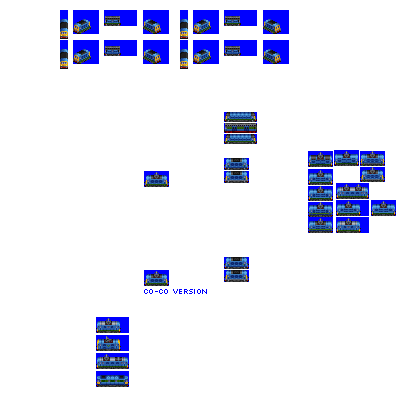
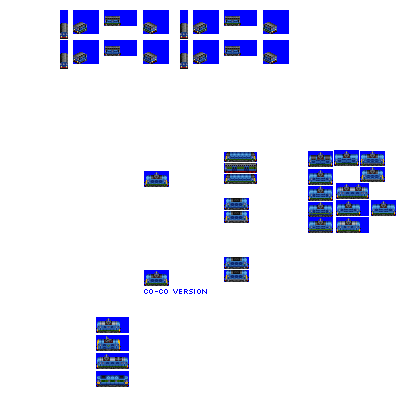
Change: larger metro locomotives are finished; larger metro units are not, so turn off

diff --git a/src/rosters/pony.py b/src/rosters/pony.py
@@ -173,23 +173,23 @@ engine_module_names = [
     "driving_cab_high_speed_mail_pony_gen_6",
     # metro
     "serpentine",
-    "poplar", # unfinished, nerfed
+    #"poplar", # unfinished, nerfed
     "westbourne",
-    "hammersmith", # unfinished, nerfed
+    #"hammersmith", # unfinished, nerfed
     "fleet",
-    "canary", # unfinished, nerfed
+    #"canary", # unfinished, nerfed
     "longwater",
-    "ravensbourne", # unfinished, nerfed
+    #"ravensbourne", # unfinished, nerfed
     "tyburn",
-    "wandle", # unfinished, nerfed
+    #"wandle", # unfinished, nerfed
     "tideway",
-    "bankside", # unfinished, nerfed
-    "debden", # unfinished, nerfed
-    "cringle", # unfinished, nerfed
-    "mulberry", # unfinished, nerfed
-    "walbrook", # unfinished, nerfed
-    "borax", # unfinished, nerfed
-    "angerstein", # unfinished, nerfed
+    #"bankside", # unfinished, nerfed
+    "debden",
+    "cringle",
+    "mulberry",
+    "walbrook",
+    "borax",
+    "angerstein",
     # ng engines
     "cheese_bug",
     "bean_feast",

diff --git a/src/vehicles/pony/borax.py b/src/vehicles/pony/borax.py
@@ -19,7 +19,7 @@ def main(roster_id, **kwargs):
         extended_vehicle_life=True,
         # note that livery names are metadata only and can repeat for different spriterows
         additional_liveries=["INDUSTRIAL_YELLOW"],
-        sprites_complete=False,
+        sprites_complete=True,
     )
 
     consist.add_unit(
@@ -27,7 +27,7 @@ def main(roster_id, **kwargs):
     )
 
     consist.description = (
-        """."""
+        """Is London drowning? Because I live by the river."""
     )
     consist.foamer_facts = """Metropolitan Railway electric locos"""
 

diff --git a/src/vehicles/pony/walbrook.py b/src/vehicles/pony/walbrook.py
@@ -18,7 +18,7 @@ def main(roster_id, **kwargs):
         extended_vehicle_life=True,
         # note that livery names are metadata only and can repeat for different spriterows
         additional_liveries=["INDUSTRIAL_YELLOW"],
-        sprites_complete=False,
+        sprites_complete=True,
     )
 
     consist.add_unit(
@@ -26,7 +26,7 @@ def main(roster_id, **kwargs):
     )
 
     consist.description = (
-        """."""
+        """Are these glazed and dirty steps?"""
     )
     consist.foamer_facts = """District Railway electric locos"""
 

diff --git a/src/vehicles/pony/angerstein.py b/src/vehicles/pony/angerstein.py
@@ -19,7 +19,7 @@ def main(roster_id, **kwargs):
         extended_vehicle_life=True,
         # note that livery names are metadata only and can repeat for different spriterows
         additional_liveries=["INDUSTRIAL_YELLOW"],
-        sprites_complete=False,
+        sprites_complete=True,
     )
 
     consist.add_unit(
